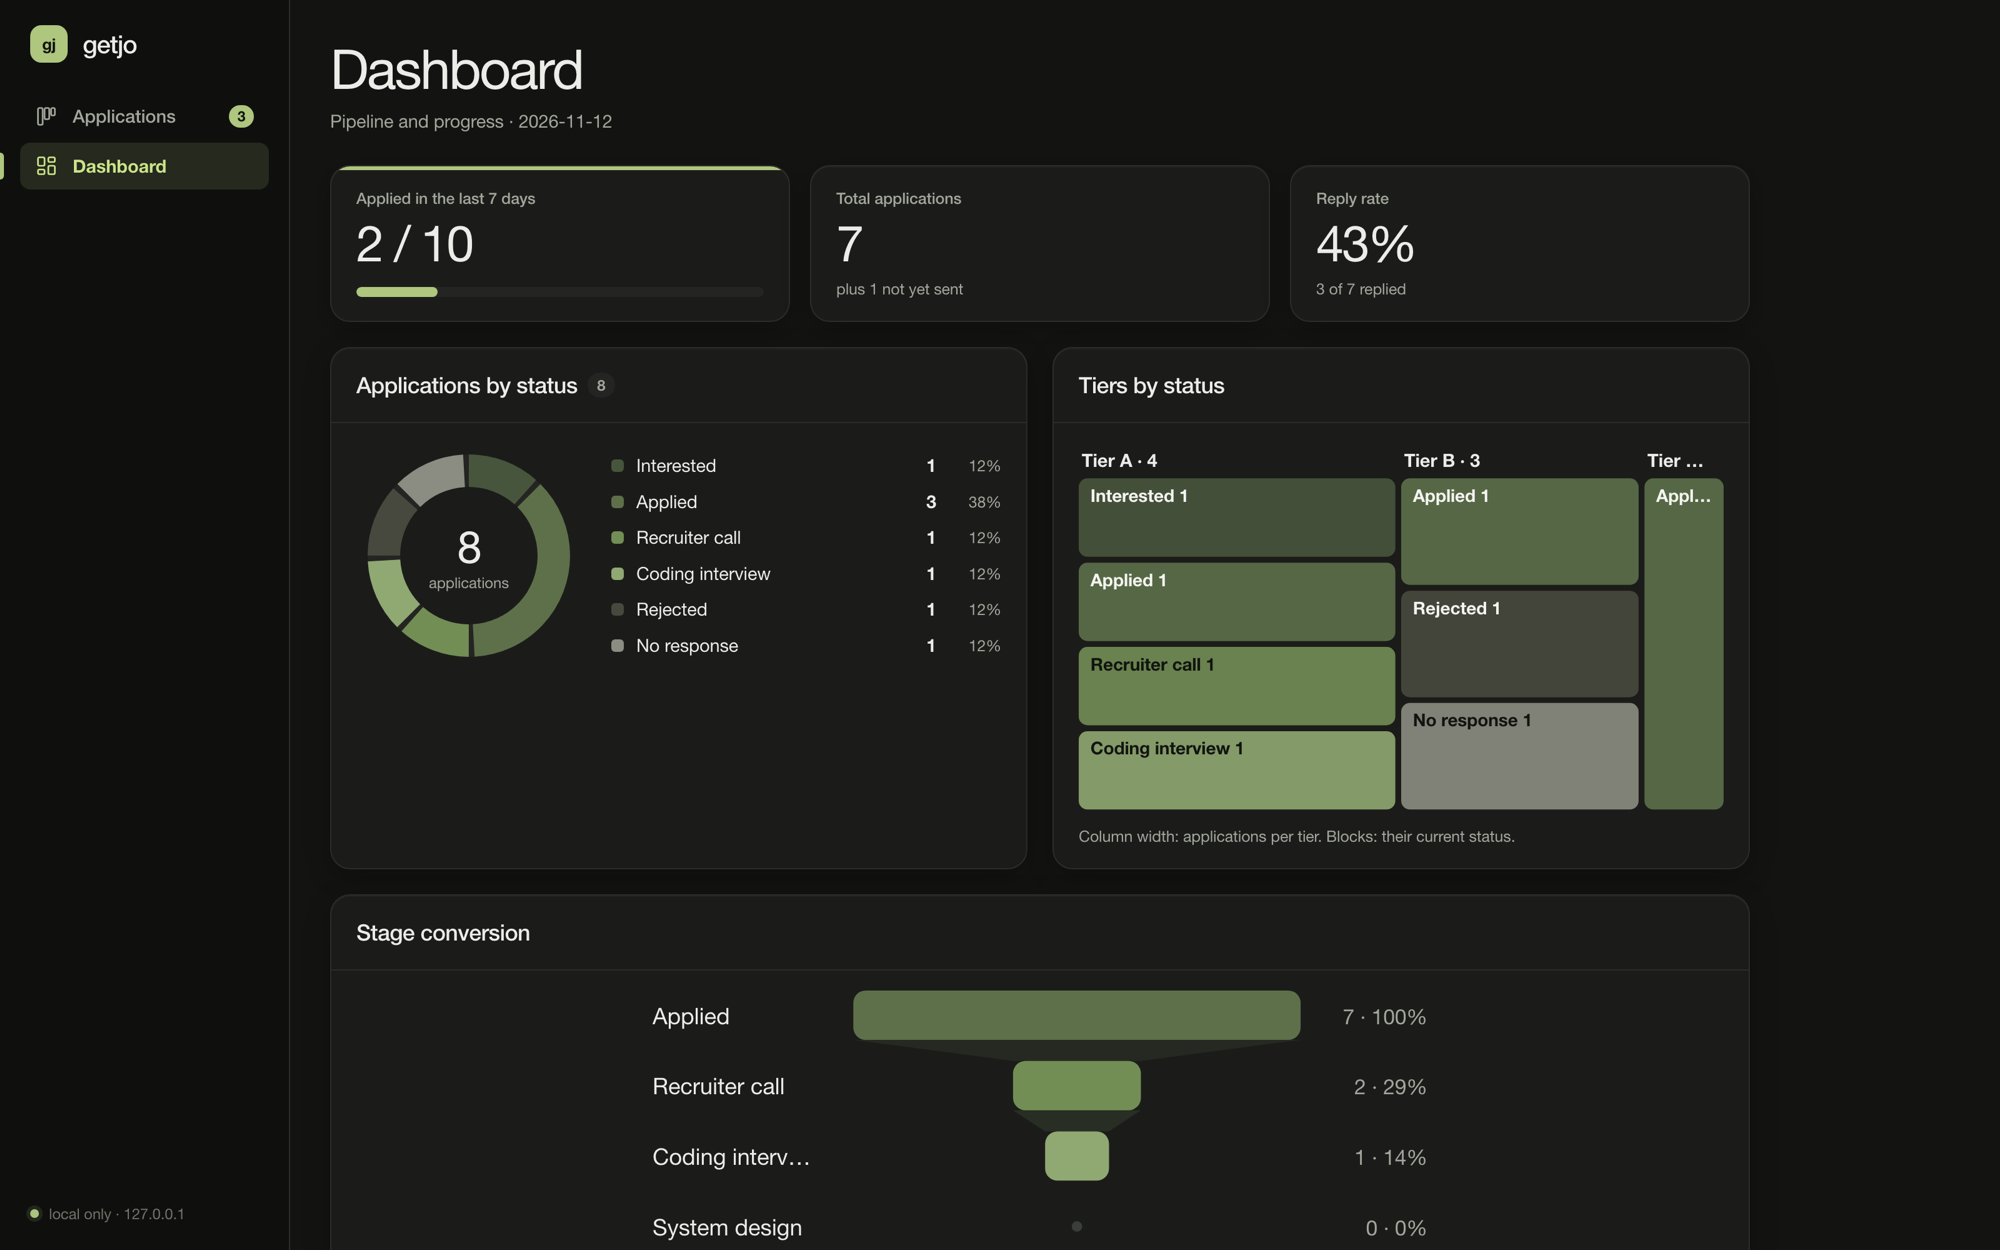
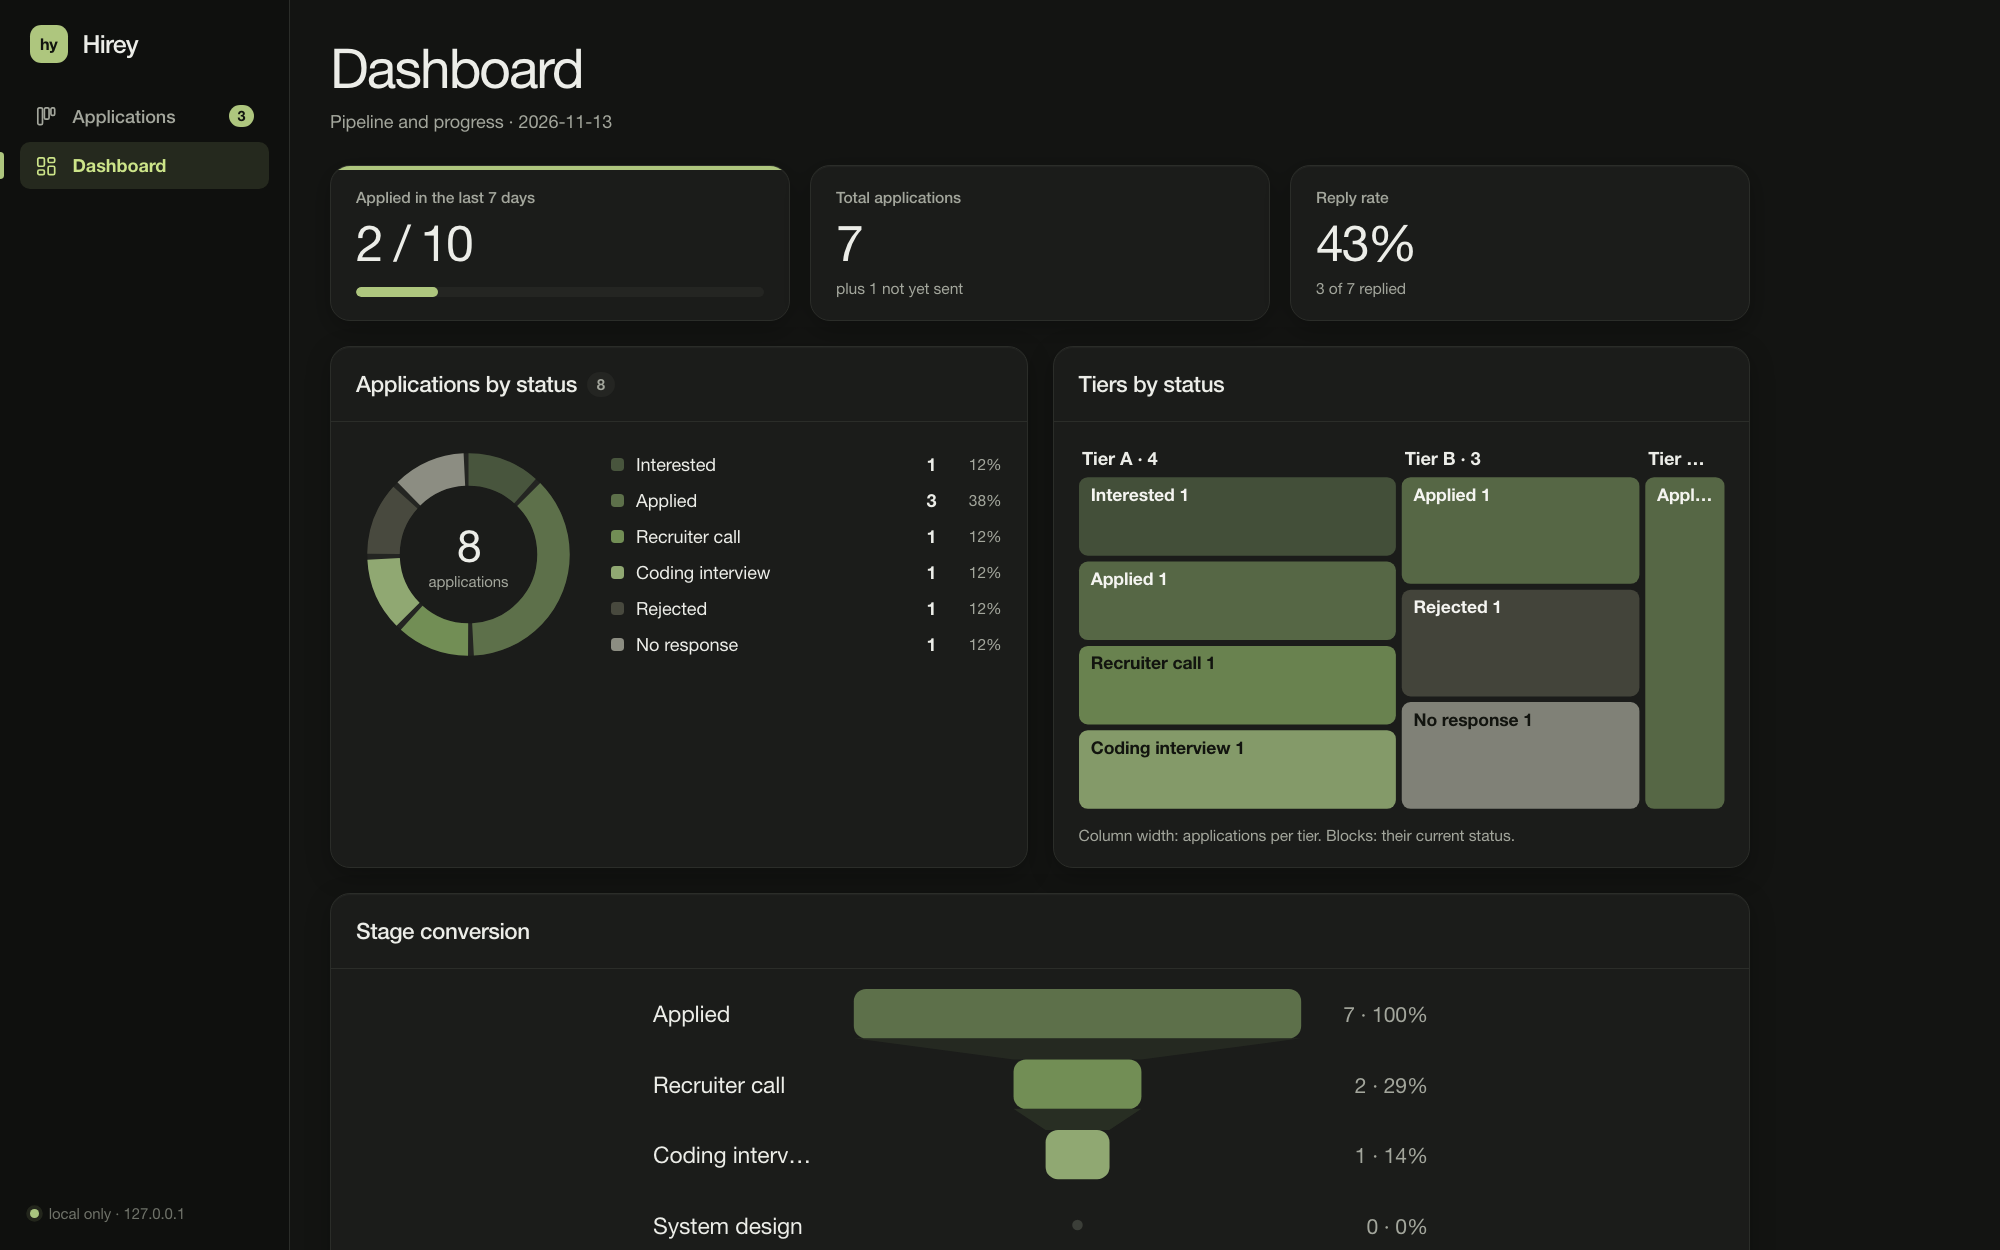
Hirey name in the app, skills and screenshots (#11)
The dashboard sidebar and page titles say Hirey (mark "hy"), as do the
server header, argparse descriptions, the session-start note prefix, the
package docstring and the skill descriptions. Screenshots retaken from the
seeded example db. README notes that PR numbers #11-#14 in older commit
messages refer to an earlier copy of the repo. Internal names unchanged.

diff --git a/prep/web.py b/prep/web.py
@@ -2099,12 +2099,12 @@ def _page(status: int, title: str, subtitle: str, content: str, active: str, off
         '<!doctype html><html lang="en"><head><meta charset="utf-8">'
         '<meta name="viewport" content="width=device-width, initial-scale=1">'
         '<meta name="color-scheme" content="dark">'
-        f"<title>{h(title)} · getjo</title>"
+        f"<title>{h(title)} · Hirey</title>"
         '<link rel="stylesheet" href="/static/style.css">'
         '<script src="/static/app.js" defer></script></head>'
         f'<body class="theme-{PAGE_THEMES.get(active, "sage")}"><div class="app">'
-        '<aside class="sidebar"><a class="brand" href="/"><span class="brand-mark">gj</span>'
-        '<span class="brand-name">getjo</span></a>'
+        '<aside class="sidebar"><a class="brand" href="/"><span class="brand-mark">hy</span>'
+        '<span class="brand-name">Hirey</span></a>'
         f'<nav aria-label="Pages">{nav}</nav>'
         '<p class="sidebar-foot"><span class="dot"></span>local only · 127.0.0.1</p></aside>'
         f'<main><header class="page-head"><div class="page-head-row"><h1>{h(title)}</h1>{actions}</div>{sub}</header>'
@@ -2272,7 +2272,7 @@ def _link(url: str | None, text: str) -> str:
 # --- server -----------------------------------------------------------------------------
 
 class Handler(BaseHTTPRequestHandler):
-    server_version = "inter_prep"
+    server_version = "Hirey"
     sys_version = ""
 
     def do_GET(self) -> None:
@@ -2337,7 +2337,7 @@ def serve(settings: Settings, host: str = "127.0.0.1", port: int | None = None) 
 
 
 def main(argv: list[str] | None = None) -> int:
-    parser = argparse.ArgumentParser(prog="python -m prep.web", description="inter_prep local dashboard")
+    parser = argparse.ArgumentParser(prog="python -m prep.web", description="Hirey local dashboard")
     parser.add_argument("--port", type=int, help="default: dashboard_port from settings (8765)")
     args = parser.parse_args(argv)
     logging.basicConfig(stream=sys.stdout, level=logging.INFO, format="%(asctime)s %(levelname)s %(name)s: %(message)s")

diff --git a/prep/cli.py b/prep/cli.py
@@ -740,7 +740,7 @@ def cmd_queue(args: argparse.Namespace, settings: Settings) -> int:
         return 0
     text = " ".join(line for line in lines if line)
     if text:
-        print("inter_prep: " + text + " Offer it to the user, or run it at once if this is the "
+        print("Hirey: " + text + " Offer it to the user, or run it at once if this is the "
               "standing assistant session.")
     return 0
 
@@ -1600,7 +1600,7 @@ def _get_task(conn: sqlite3.Connection, task_id: int) -> dict:
 # --- argument parsing -----------------------------------------------------------
 
 def build_parser() -> argparse.ArgumentParser:
-    parser = argparse.ArgumentParser(prog="python -m prep.cli", description="inter_prep commands")
+    parser = argparse.ArgumentParser(prog="python -m prep.cli", description="Hirey commands")
     parser.add_argument("-v", "--verbose", action="store_true", help="log progress to stdout")
     sub = parser.add_subparsers(dest="command", required=True)
 

diff --git a/tests/test_web.py b/tests/test_web.py
@@ -766,7 +766,7 @@ class LandingPageTest(WebTestCase):
         self.assertEqual([n.split("</span>")[0] for n in nav.split("<span>")[1:]], ["Applications", "Dashboard"])
         self.assertIn('<a href="/" aria-current="page">', nav)
         self.assertIn('<span class="nav-count" title="New offers">3</span>', nav)
-        self.assertIn("<title>Applications · getjo</title>", body)
+        self.assertIn("<title>Applications · Hirey</title>", body)
         switch = body[body.index('class="view-switch"'):body.index("</nav>", body.index('class="view-switch"'))]
         self.assertIn('href="/" data-view="pipeline" aria-current="true">Pipeline <span class="count">6</span>', switch)
         self.assertIn('href="/?view=offers" data-view="offers">New offers <span class="count">3</span>', switch)

diff --git a/prep/__init__.py b/prep/__init__.py
@@ -1,1 +1,1 @@
-"""inter_prep: application tracking and interview prep on top of getjo's job matches."""
+"""Hirey (package prep): application tracking and interview prep on top of getjo's job matches."""

diff --git a/.claude/skills/ask/SKILL.md b/.claude/skills/ask/SKILL.md
@@ -1,6 +1,6 @@
 ---
 name: ask
-description: Answer messages left in the Agent box on the inter_prep dashboard — "which tasks need me?" and other questions about the whole search, questions about a company, the role or the CV fit (also for a job offer not yet tracked), comparisons of several ticked jobs, answers and change requests for the tailored CV, changes to the master CV from the My CV panel ("add Terraform to my skills", "shorten my summary"), requests to change the application (tasks, comments, stage, tier, which CV was sent, skip), a pasted recruiter email or call notes that should update the stage, or a mock interview (started from the panel, or an answer while one is in progress). Reads the thread and its context files, answers (searching the web when needed) or records the stage change, and replies in the thread. Use when the user types /ask [application id, job, cv, compare or general] [message id], when the standing assistant receives "/ask <app> <msg>", "/ask job <msg>", "/ask cv <msg>", "/ask compare <msg>" or "/ask general <msg>", or when /today or the session-start note says thread messages are waiting.
+description: Answer messages left in the Agent box on the Hirey dashboard — "which tasks need me?" and other questions about the whole search, questions about a company, the role or the CV fit (also for a job offer not yet tracked), comparisons of several ticked jobs, answers and change requests for the tailored CV, changes to the master CV from the My CV panel ("add Terraform to my skills", "shorten my summary"), requests to change the application (tasks, comments, stage, tier, which CV was sent, skip), a pasted recruiter email or call notes that should update the stage, or a mock interview (started from the panel, or an answer while one is in progress). Reads the thread and its context files, answers (searching the web when needed) or records the stage change, and replies in the thread. Use when the user types /ask [application id, job, cv, compare or general] [message id], when the standing assistant receives "/ask <app> <msg>", "/ask job <msg>", "/ask cv <msg>", "/ask compare <msg>" or "/ask general <msg>", or when /today or the session-start note says thread messages are waiting.
 ---
 
 # /ask

diff --git a/.claude/skills/research/SKILL.md b/.claude/skills/research/SKILL.md
@@ -1,6 +1,6 @@
 ---
 name: research
-description: Do the queued company research, CV fit checks, tailored CVs and job briefs in inter_prep — research what a company does, its size, stack, culture, interview process and recent news, check how cv.md fits the job, set the tier, write a copy of the CV tailored to one job (questions go to the Agent box), check a tailored copy in a separate pass (claims traced to cv.md or the facts bank, fit, six-second skim), write the short job brief shown at the top of a job's panel, and save the results locally. Use when the user types /research [application id] or /research briefs, when /today or the session-start note says agent work or job briefs are pending, or when the user asks to research a company or check the CV against a job.
+description: Do the queued company research, CV fit checks, tailored CVs and job briefs in Hirey — research what a company does, its size, stack, culture, interview process and recent news, check how cv.md fits the job, set the tier, write a copy of the CV tailored to one job (questions go to the Agent box), check a tailored copy in a separate pass (claims traced to cv.md or the facts bank, fit, six-second skim), write the short job brief shown at the top of a job's panel, and save the results locally. Use when the user types /research [application id] or /research briefs, when /today or the session-start note says agent work or job briefs are pending, or when the user asks to research a company or check the CV against a job.
 ---
 
 # /research

diff --git a/.claude/skills/mock/SKILL.md b/.claude/skills/mock/SKILL.md
@@ -1,6 +1,6 @@
 ---
 name: mock
-description: Run a mock interview for one application in the inter_prep Agent box, for a chosen stage (recruiter call, coding interview, system design, company interview) — one question per reply, then 1–5 scores per area, the weaknesses as gaps with drill tasks, and the transcript saved privately under sessions/. Use when /ask hands over a "Start a mock interview: …" message, a message asking for a mock ("mock me for system design"), or an answer while a mock is in progress (the latest "Mock ·" line in agent replies about that application is a question footer, not "finished"); also when the user types /mock APP [stage].
+description: Run a mock interview for one application in the Hirey Agent box, for a chosen stage (recruiter call, coding interview, system design, company interview) — one question per reply, then 1–5 scores per area, the weaknesses as gaps with drill tasks, and the transcript saved privately under sessions/. Use when /ask hands over a "Start a mock interview: …" message, a message asking for a mock ("mock me for system design"), or an answer while a mock is in progress (the latest "Mock ·" line in agent replies about that application is a question footer, not "finished"); also when the user types /mock APP [stage].
 ---
 
 # /mock

diff --git a/.claude/skills/stage/SKILL.md b/.claude/skills/stage/SKILL.md
@@ -1,6 +1,6 @@
 ---
 name: stage
-description: Update an application's stage in inter_prep from free text — a pasted recruiter email, notes or a transcript from a call, or a one-line message such as "Globex invited me to a coding interview on Tuesday" or "Initech rejected me". It finds the application, moves it to the right stage with the interview date, saves a short comment and adds any extra to-dos, then replies in one or two lines. Use when the user types /stage, pastes an email or call notes about an application, or says an interview was booked, moved, passed or failed, an offer arrived, they were rejected, or they withdrew.
+description: Update an application's stage in Hirey from free text — a pasted recruiter email, notes or a transcript from a call, or a one-line message such as "Globex invited me to a coding interview on Tuesday" or "Initech rejected me". It finds the application, moves it to the right stage with the interview date, saves a short comment and adds any extra to-dos, then replies in one or two lines. Use when the user types /stage, pastes an email or call notes about an application, or says an interview was booked, moved, passed or failed, an offer arrived, they were rejected, or they withdrew.
 ---
 
 # /stage

diff --git a/.claude/skills/debrief/SKILL.md b/.claude/skills/debrief/SKILL.md
@@ -1,6 +1,6 @@
 ---
 name: debrief
-description: Turn a pasted or dictated transcript or notes from a real interview, or from a mock interview done elsewhere, into inter_prep records — the interview's questions, what went well and what to improve, a practice session with 1–5 scores per area, and a gap with a drill task for each weakness named. The transcript is saved under private_dir/sessions/. It also completes the "Debrief — what to improve" task. Use when the user types /debrief, pastes or dictates how an interview or a mock went, or says "let's debrief the Initech interview".
+description: Turn a pasted or dictated transcript or notes from a real interview, or from a mock interview done elsewhere, into Hirey records — the interview's questions, what went well and what to improve, a practice session with 1–5 scores per area, and a gap with a drill task for each weakness named. The transcript is saved under private_dir/sessions/. It also completes the "Debrief — what to improve" task. Use when the user types /debrief, pastes or dictates how an interview or a mock went, or says "let's debrief the Initech interview".
 ---
 
 # /debrief

diff --git a/.claude/skills/today/SKILL.md b/.claude/skills/today/SKILL.md
@@ -1,6 +1,6 @@
 ---
 name: today
-description: Daily job-search brief from inter_prep — applications that moved to No response, queued company research and CV fit checks (run them), Agent thread messages waiting for an answer (run /ask), tasks due today or overdue (with their application), and new getjo matches scored 7 or more that are not yet tracked. Use when the user types /today or asks what to do today, what is due, or what new matches there are.
+description: Daily job-search brief from Hirey — applications that moved to No response, queued company research and CV fit checks (run them), Agent thread messages waiting for an answer (run /ask), tasks due today or overdue (with their application), and new getjo matches scored 7 or more that are not yet tracked. Use when the user types /today or asks what to do today, what is due, or what new matches there are.
 ---
 
 # /today

diff --git a/docs/how-it-works.md b/docs/how-it-works.md
@@ -542,7 +542,7 @@ each as ten shades `s1`–`s10` set by a `theme-*` class on `<body>` and used by
 buttons and meters; installed Helvetica Neue-style fonts only; responsive down to phone
 width) and `app.js`. Charts come from `prep/charts.py`: server-rendered inline SVG (donut,
 treemap, funnel, columns, trend) coloured by shade-step CSS classes, so they need no script and no inline
-style, and every label is escaped. The site is branded "getjo" in the page title and sidebar. The
+style, and every label is escaped. The site is branded "Hirey" in the page title and sidebar. The
 Content-Security-Policy allows only these same-origin files (`script-src 'self'`, no inline
 script or style), and nothing is fetched from another host (no CDN, fonts or chart libraries).
 

diff --git a/.claude/skills/applied/SKILL.md b/.claude/skills/applied/SKILL.md
@@ -1,6 +1,6 @@
 ---
 name: applied
-description: Record a job application in inter_prep from a getjo job id, a job URL, or a company and role, linking it to the getjo job when one matches; it gets its first tasks automatically. Use when the user types /applied or says they applied (or are interested in applying) somewhere.
+description: Record a job application in Hirey from a getjo job id, a job URL, or a company and role, linking it to the getjo job when one matches; it gets its first tasks automatically. Use when the user types /applied or says they applied (or are interested in applying) somewhere.
 ---
 
 # /applied
